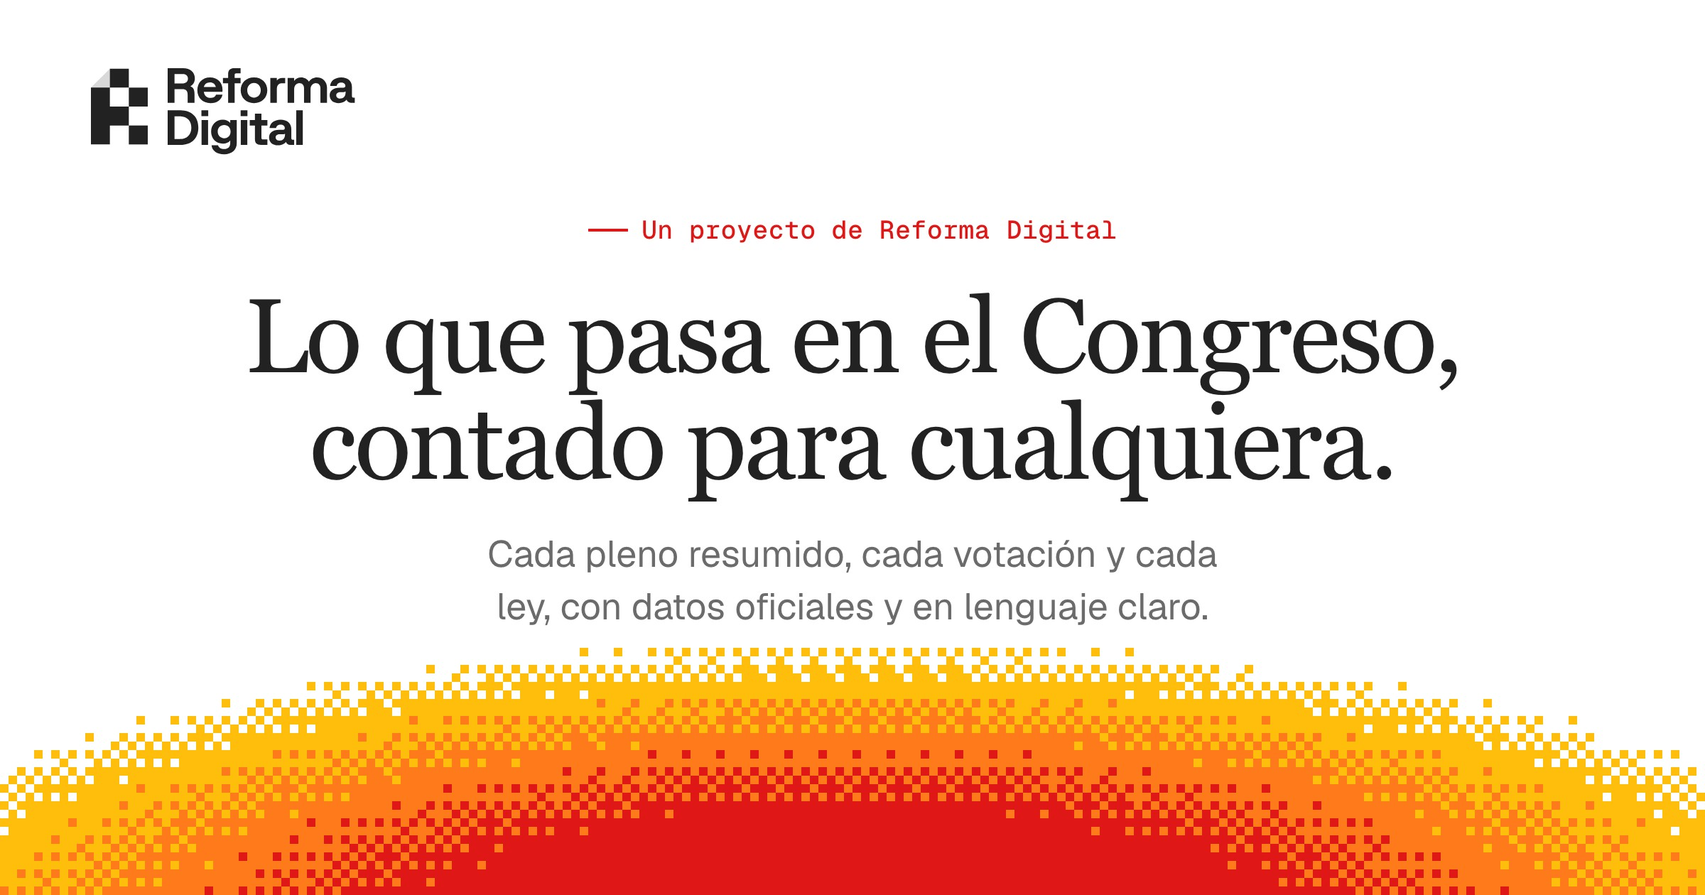
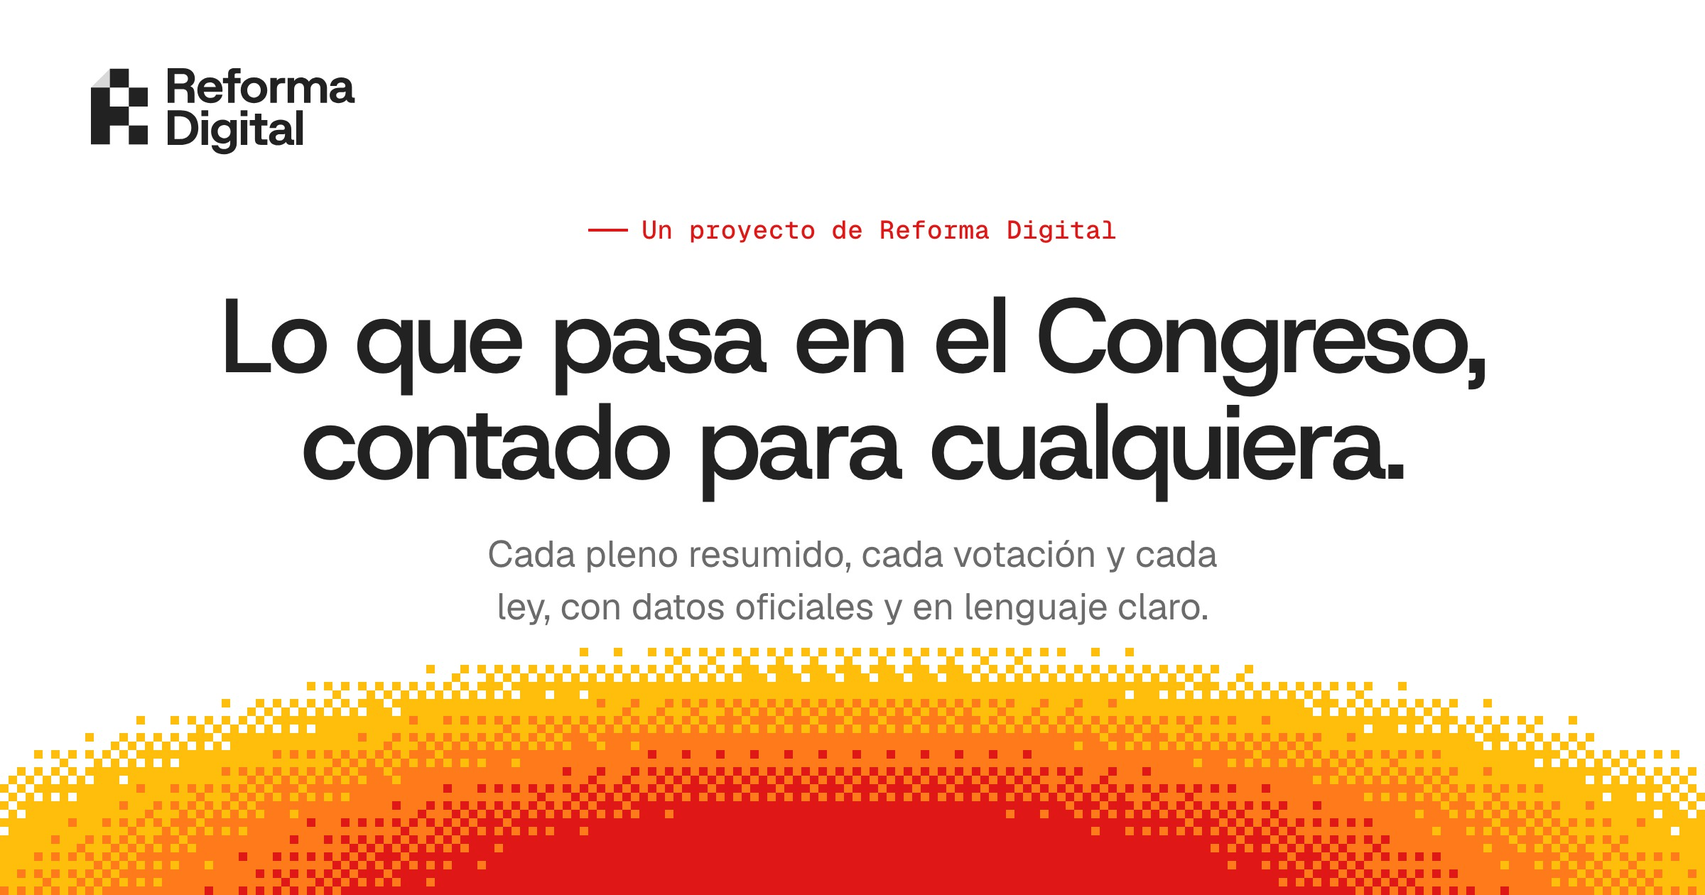
feat(design): cambia los titulares a Host Grotesk Medium
Host Grotesk es OFL y casi idéntica a Cassette, que exigía licencias web y
de app. Sustituye a Cassette en los titulares de la web, la app de
escritorio y las imágenes OG; el resto del texto sigue en Geist (Inter en la
app).

- La web la carga con `next/font/google`, solo en grosor 500.
- La app la incluye con `@fontsource/host-grotesk/500.css`.
- El espaciado de los titulares pasa a -0.035em, también para los h1 y h2
  sin espaciado propio.
- Las imágenes OG se regeneran con la plantilla actualizada.
- DESIGN.md recoge la norma y .gitignore deja de reservar una carpeta para
  fuentes de pago.

Changed region(s): [[0.125, 0.3095, 0.875, 0.5571]]

diff --git a/apps/web/app/(search)/page.tsx b/apps/web/app/(search)/page.tsx
@@ -77,7 +77,7 @@ export default function HomePage() {
             <h1
               id="in-titulo"
               className={
-                't-titular-xl m-0 [font-family:var(--font-brand-heading)] font-normal [font-kerning:normal] text-balance [font-size:clamp(44px,_6.4vw,_92px)] [line-height:1] [letter-spacing:-0.01em]'
+                't-titular-xl m-0 [font-family:var(--font-brand-heading)] font-normal [font-kerning:normal] text-balance [font-size:clamp(44px,_6.4vw,_92px)] [line-height:1] [letter-spacing:-0.035em]'
               }
             >
               Lo público, a la altura de las personas.
@@ -127,7 +127,7 @@ export default function HomePage() {
             <h2
               id="in-idea"
               className={
-                't-titular-m m-0 [font-family:var(--font-brand-heading)] font-normal [font-kerning:normal] text-balance [font-size:clamp(32px,_4vw,_52px)] [line-height:1.05] [letter-spacing:-0.01em]'
+                't-titular-m m-0 [font-family:var(--font-brand-heading)] font-normal [font-kerning:normal] text-balance [font-size:clamp(32px,_4vw,_52px)] [line-height:1.05] [letter-spacing:-0.035em]'
               }
             >
               Que hacer un trámite no sea otro trámite.
@@ -185,7 +185,7 @@ export default function HomePage() {
                   <h2
                     id="in-proyectos-titulo"
                     className={
-                      't-titular-m m-0 [font-family:var(--font-brand-heading)] font-normal [font-kerning:normal] text-balance [font-size:clamp(32px,_4vw,_52px)] [line-height:1.05] [letter-spacing:-0.01em]'
+                      't-titular-m m-0 [font-family:var(--font-brand-heading)] font-normal [font-kerning:normal] text-balance [font-size:clamp(32px,_4vw,_52px)] [line-height:1.05] [letter-spacing:-0.035em]'
                     }
                   >
                     La idea, puesta en práctica.
@@ -415,7 +415,7 @@ export default function HomePage() {
           <h2
             id="in-comunidad-titulo"
             className={
-              't-titular-m m-0 [font-family:var(--font-brand-heading)] font-normal [font-kerning:normal] text-balance [font-size:clamp(32px,_4vw,_52px)] [line-height:1.05] [letter-spacing:-0.01em]'
+              't-titular-m m-0 [font-family:var(--font-brand-heading)] font-normal [font-kerning:normal] text-balance [font-size:clamp(32px,_4vw,_52px)] [line-height:1.05] [letter-spacing:-0.035em]'
             }
           >
             Tu experiencia puede ser el próximo cambio.
@@ -452,7 +452,7 @@ export default function HomePage() {
                 <div>
                   <h3
                     className={
-                      't-titular-s m-0 [font-family:var(--font-brand-heading)] font-normal [font-kerning:normal] text-balance [font-size:clamp(24px,_2.4vw,_30px)] [line-height:1.15] [letter-spacing:-0.01em]'
+                      't-titular-s m-0 [font-family:var(--font-brand-heading)] font-normal [font-kerning:normal] text-balance [font-size:clamp(24px,_2.4vw,_30px)] [line-height:1.15] [letter-spacing:-0.035em]'
                     }
                   >
                     Entra en GitHub.
@@ -483,7 +483,7 @@ export default function HomePage() {
                 <div>
                   <h3
                     className={
-                      't-titular-s m-0 [font-family:var(--font-brand-heading)] font-normal [font-kerning:normal] text-balance [font-size:clamp(24px,_2.4vw,_30px)] [line-height:1.15] [letter-spacing:-0.01em]'
+                      't-titular-s m-0 [font-family:var(--font-brand-heading)] font-normal [font-kerning:normal] text-balance [font-size:clamp(24px,_2.4vw,_30px)] [line-height:1.15] [letter-spacing:-0.035em]'
                     }
                   >
                     Comparte lo que mejorarías.
@@ -514,7 +514,7 @@ export default function HomePage() {
                 <div>
                   <h3
                     className={
-                      't-titular-s m-0 [font-family:var(--font-brand-heading)] font-normal [font-kerning:normal] text-balance [font-size:clamp(24px,_2.4vw,_30px)] [line-height:1.15] [letter-spacing:-0.01em]'
+                      't-titular-s m-0 [font-family:var(--font-brand-heading)] font-normal [font-kerning:normal] text-balance [font-size:clamp(24px,_2.4vw,_30px)] [line-height:1.15] [letter-spacing:-0.035em]'
                     }
                   >
                     Dale forma a una propuesta.

diff --git a/apps/web/components/congreso/common.tsx b/apps/web/components/congreso/common.tsx
@@ -44,7 +44,7 @@ export function Intro({
   return (
     <div
       className={
-        "cg-intro [margin:32px_0] [&_:is(h1,_h2)]:[font-size:clamp(34px,_4.2vw,_56px)] [&_:is(h1,_h2)]:[line-height:1.08] [&_:is(h1,_h2)]:[letter-spacing:-0.01em] [&_:is(h1,_h2)]:[margin:12px_0] [&:has(>_h1)]:[--celda:4px] [&:has(>_h1)]:relative [&:has(>_h1)]:isolate [&:has(>_h1)]:overflow-hidden [&:has(>_h1)]:flex [&:has(>_h1)]:flex-col [&:has(>_h1)]:[justify-content:flex-end] [&:has(>_h1)]:min-h-75 [&:has(>_h1)]:[padding:clamp(32px,_5vw,_64px)_clamp(24px,_4.5vw,_56px)] [&:has(>_h1)]:[border-radius:28px] [&:has(>_h1)]:[box-shadow:inset_0_0_0_1px_var(--border)] [&:has(>_h1)_>_*]:[max-width:min(62ch,_52%)] [&:has(>_h1)::after]:[content:''] [&:has(>_h1)::after]:absolute [&:has(>_h1)::after]:[z-index:-1] [&:has(>_h1)::after]:[right:clamp(0px,_4%,_56px)] [&:has(>_h1)::after]:[bottom:0] [&:has(>_h1)::after]:[width:calc(120_*_var(--celda))] [&:has(>_h1)::after]:[height:calc(44_*_var(--celda))] [&:has(>_h1)::after]:[background:url('/congreso/sol-disco.png')_50%_100%_/_100%_100%_no-repeat] [&:has(>_h1)::after]:[image-rendering:pixelated] [&:has(>_h1)::after]:pointer-events-none [@container(max-width:_1090px)]:[&:has(>_h1)]:[--celda:3px] [@container(max-width:_820px)]:[&:has(>_h1)]:[min-height:0] [@container(max-width:_820px)]:[&:has(>_h1)]:[padding-bottom:calc(44_*_var(--celda)_+_16px)] [@container(max-width:_820px)]:[&:has(>_h1)_>_*]:max-w-none [@container(max-width:_820px)]:[&:has(>_h1)::after]:[right:calc(50%_-_60_*_var(--celda))]"
+        "cg-intro [margin:32px_0] [&_:is(h1,_h2)]:[font-size:clamp(34px,_4.2vw,_56px)] [&_:is(h1,_h2)]:[line-height:1.08] [&_:is(h1,_h2)]:[letter-spacing:-0.035em] [&_:is(h1,_h2)]:[margin:12px_0] [&:has(>_h1)]:[--celda:4px] [&:has(>_h1)]:relative [&:has(>_h1)]:isolate [&:has(>_h1)]:overflow-hidden [&:has(>_h1)]:flex [&:has(>_h1)]:flex-col [&:has(>_h1)]:[justify-content:flex-end] [&:has(>_h1)]:min-h-75 [&:has(>_h1)]:[padding:clamp(32px,_5vw,_64px)_clamp(24px,_4.5vw,_56px)] [&:has(>_h1)]:[border-radius:28px] [&:has(>_h1)]:[box-shadow:inset_0_0_0_1px_var(--border)] [&:has(>_h1)_>_*]:[max-width:min(62ch,_52%)] [&:has(>_h1)::after]:[content:''] [&:has(>_h1)::after]:absolute [&:has(>_h1)::after]:[z-index:-1] [&:has(>_h1)::after]:[right:clamp(0px,_4%,_56px)] [&:has(>_h1)::after]:[bottom:0] [&:has(>_h1)::after]:[width:calc(120_*_var(--celda))] [&:has(>_h1)::after]:[height:calc(44_*_var(--celda))] [&:has(>_h1)::after]:[background:url('/congreso/sol-disco.png')_50%_100%_/_100%_100%_no-repeat] [&:has(>_h1)::after]:[image-rendering:pixelated] [&:has(>_h1)::after]:pointer-events-none [@container(max-width:_1090px)]:[&:has(>_h1)]:[--celda:3px] [@container(max-width:_820px)]:[&:has(>_h1)]:[min-height:0] [@container(max-width:_820px)]:[&:has(>_h1)]:[padding-bottom:calc(44_*_var(--celda)_+_16px)] [@container(max-width:_820px)]:[&:has(>_h1)_>_*]:max-w-none [@container(max-width:_820px)]:[&:has(>_h1)::after]:[right:calc(50%_-_60_*_var(--celda))]"
       }
     >
       <span

diff --git a/apps/web/app/(search)/congreso/[[...path]]/page.tsx b/apps/web/app/(search)/congreso/[[...path]]/page.tsx
@@ -75,7 +75,7 @@ export default async function Page({ params, searchParams }: Props) {
       {section === '' && (
         <section
           className={
-            "cg-hero [--celda:8px] relative isolate overflow-hidden [margin:0_8px] [padding:96px_var(--page-gutter)_calc(32_*_var(--celda)_+_24px)] [border-radius:28px] [box-shadow:inset_0_0_0_1px_var(--border)] text-center [&::after]:[content:''] [&::after]:absolute [&::after]:[z-index:-1] [&::after]:[inset:auto_0_0] [&::after]:[height:calc(32_*_var(--celda))] [&::after]:[background:url('/congreso/sol-horizonte.png')_50%_100%_/_calc(360_*_var(--celda))_100%_no-repeat] [&::after]:[image-rendering:pixelated] [&::after]:pointer-events-none [&_h1]:[font-size:clamp(36px,_5vw,_72px)] [&_h1]:[line-height:1.08] [&_h1]:[letter-spacing:-0.01em] [&_h1]:[max-width:25ch] [&_h1]:[margin:24px_auto] [&_p]:[max-width:62ch] [&_p]:[margin:0_auto] [&_p]:[color:var(--text-secondary)] [&_p]:text-lg [&_[data-slot=button][data-variant=outline]]:absolute [&_[data-slot=button][data-variant=outline]]:[inset:auto_0_24px] [&_[data-slot=button][data-variant=outline]]:[width:fit-content] [&_[data-slot=button][data-variant=outline]]:[margin-inline:auto] [@media(max-width:_560px)]:[--celda:6px] [@media(max-width:_560px)]:pt-16 [@media(max-width:_560px)]:[&_p]:text-base"
+            "cg-hero [--celda:8px] relative isolate overflow-hidden [margin:0_8px] [padding:96px_var(--page-gutter)_calc(32_*_var(--celda)_+_24px)] [border-radius:28px] [box-shadow:inset_0_0_0_1px_var(--border)] text-center [&::after]:[content:''] [&::after]:absolute [&::after]:[z-index:-1] [&::after]:[inset:auto_0_0] [&::after]:[height:calc(32_*_var(--celda))] [&::after]:[background:url('/congreso/sol-horizonte.png')_50%_100%_/_calc(360_*_var(--celda))_100%_no-repeat] [&::after]:[image-rendering:pixelated] [&::after]:pointer-events-none [&_h1]:[font-size:clamp(36px,_5vw,_72px)] [&_h1]:[line-height:1.08] [&_h1]:[letter-spacing:-0.035em] [&_h1]:[max-width:25ch] [&_h1]:[margin:24px_auto] [&_p]:[max-width:62ch] [&_p]:[margin:0_auto] [&_p]:[color:var(--text-secondary)] [&_p]:text-lg [&_[data-slot=button][data-variant=outline]]:absolute [&_[data-slot=button][data-variant=outline]]:[inset:auto_0_24px] [&_[data-slot=button][data-variant=outline]]:[width:fit-content] [&_[data-slot=button][data-variant=outline]]:[margin-inline:auto] [@media(max-width:_560px)]:[--celda:6px] [@media(max-width:_560px)]:pt-16 [@media(max-width:_560px)]:[&_p]:text-base"
           }
         >
           <span

diff --git a/apps/web/components/brand/info-page.tsx b/apps/web/components/brand/info-page.tsx
@@ -9,7 +9,7 @@ export function InfoPage({ children, narrow = false }: { children: ReactNode; na
       <main
         id="main"
         tabIndex={-1}
-        className={`info-pagina [max-width:var(--container-content)] [min-height:55vh] [margin-inline:auto] [padding:64px_var(--page-gutter)_80px] [&_>_h1]:[max-width:22ch] [&_>_h1]:mb-6 [&_>_h1]:[font:400_clamp(36px,_4.5vw,_60px)/1.1_var(--font-brand-heading)] [&_>_h1]:[letter-spacing:-0.01em] [&_form:has(select)]:flex [&_form:has(select)]:items-center [&_form:has(select)]:flex-wrap [&_form:has(select)]:gap-3 [&_form:has(select)]:my-6 [&_table]:w-full [&_table]:[border-collapse:collapse] [&_table]:text-sm [&_table]:my-4 [&_:is(th,_td)]:p-3 [&_:is(th,_td)]:[border-bottom:1px_solid_var(--border)] [&_:is(th,_td)]:text-left [&_:is(th,_td)]:[font-variant-numeric:tabular-nums] [@media(max-width:_600px)]:[padding-block:40px_64px]${narrow ? ' info-lectura [max-width:760px] [&_>_h2]:[margin-block:40px_16px] [&_>_h2]:[font-size:clamp(24px,_3vw,_32px)] [&_>_h2]:[line-height:1.2] [&_>_p:not(.info-entradilla)]:my-4 [&_>_p:not(.info-entradilla)]:[color:var(--text-secondary)] [&_li]:my-4 [&_li]:[color:var(--text-secondary)] [&_ol]:pl-6 [&_li]:pl-2 [&_strong]:[color:var(--foreground)]' : ''}`}
+        className={`info-pagina [max-width:var(--container-content)] [min-height:55vh] [margin-inline:auto] [padding:64px_var(--page-gutter)_80px] [&_>_h1]:[max-width:22ch] [&_>_h1]:mb-6 [&_>_h1]:[font:400_clamp(36px,_4.5vw,_60px)/1.1_var(--font-brand-heading)] [&_>_h1]:[letter-spacing:-0.035em] [&_form:has(select)]:flex [&_form:has(select)]:items-center [&_form:has(select)]:flex-wrap [&_form:has(select)]:gap-3 [&_form:has(select)]:my-6 [&_table]:w-full [&_table]:[border-collapse:collapse] [&_table]:text-sm [&_table]:my-4 [&_:is(th,_td)]:p-3 [&_:is(th,_td)]:[border-bottom:1px_solid_var(--border)] [&_:is(th,_td)]:text-left [&_:is(th,_td)]:[font-variant-numeric:tabular-nums] [@media(max-width:_600px)]:[padding-block:40px_64px]${narrow ? ' info-lectura [max-width:760px] [&_>_h2]:[margin-block:40px_16px] [&_>_h2]:[font-size:clamp(24px,_3vw,_32px)] [&_>_h2]:[line-height:1.2] [&_>_p:not(.info-entradilla)]:my-4 [&_>_p:not(.info-entradilla)]:[color:var(--text-secondary)] [&_li]:my-4 [&_li]:[color:var(--text-secondary)] [&_ol]:pl-6 [&_li]:pl-2 [&_strong]:[color:var(--foreground)]' : ''}`}
       >
         {children}
       </main>

diff --git a/apps/web/components/elecciones/report.tsx b/apps/web/components/elecciones/report.tsx
@@ -59,7 +59,7 @@ export function Cell({
 export function Stat({ value, caption }: { value: ReactNode; caption: ReactNode }) {
   return (
     <p className="m-0 grid gap-2">
-      <b className="font-heading text-[40px] leading-none font-normal tracking-[-0.01em] tabular-nums lg:text-5xl">
+      <b className="font-heading text-[40px] leading-none font-normal tracking-[-0.035em] tabular-nums lg:text-5xl">
         {value}
       </b>
       <span className="max-w-[32ch] text-base leading-snug text-muted-foreground">{caption}</span>
@@ -165,7 +165,7 @@ export function Chapter({
           </p>
           <h2
             id={`${id}-titulo`}
-            className="m-0 font-heading text-[32px] leading-[1.1] font-normal tracking-[-0.01em] lg:text-[44px]"
+            className="m-0 font-heading text-[32px] leading-[1.1] font-normal tracking-[-0.035em] lg:text-[44px]"
           >
             {title}
           </h2>
@@ -183,7 +183,7 @@ export function Chapter({
 export function ReportIntro({ title, children }: { title: string; children?: ReactNode }) {
   return (
     <header className="mb-10 grid items-end gap-x-12 gap-y-4 md:grid-cols-2">
-      <h1 className="m-0 font-heading text-4xl leading-[1.1] font-normal tracking-[-0.01em] lg:text-[52px]">
+      <h1 className="m-0 font-heading text-4xl leading-[1.1] font-normal tracking-[-0.035em] lg:text-[52px]">
         {title}
       </h1>
       {children && (
@@ -204,7 +204,7 @@ export function ReportStats({ items }: { items: [number | string, string][] }) {
           className="flex-col-reverse justify-end gap-2 bg-muted p-6 ring-0 max-sm:p-5"
         >
           <dt className="text-base leading-snug text-muted-foreground">{label}</dt>
-          <dd className="m-0 font-heading text-[40px] leading-none tracking-[-0.01em] tabular-nums">
+          <dd className="m-0 font-heading text-[40px] leading-none tracking-[-0.035em] tabular-nums">
             {typeof value === 'number'
               ? String(value).replace(/\B(?=(\d{3})+(?!\d))/g, '.')
               : value}

diff --git a/apps/web/app/layout.tsx b/apps/web/app/layout.tsx
@@ -33,7 +33,7 @@ export default function RootLayout({ children }: { children: React.ReactNode }) 
       data-bg-landing=""
       data-scroll-behavior="smooth"
     >
-      <body className="bg-background font-sans text-base leading-[1.55] text-foreground antialiased [font-synthesis:none] [:where(&)_h1]:font-heading [:where(&)_h1]:font-normal [:where(&)_h2]:font-heading [:where(&)_h2]:font-normal [&_:is(h1,h2,h3,h4,dt)]:text-balance [&_:is(p,li,dd,figcaption,small)]:text-pretty selection:bg-brand-yellow selection:text-foreground [&_main:focus]:outline-none [&_.cg-voto-si]:[background:#237647] [&_.cg-voto-si]:[fill:#237647] [&_.cg-voto-no]:[background:var(--brand)] [&_.cg-voto-no]:[fill:var(--brand)] [&_.cg-voto-abst]:[background:var(--brand-yellow)] [&_.cg-voto-abst]:[fill:var(--brand-yellow)] [&_.cg-voto-ausente]:[background:var(--disabled)] [&_.cg-voto-ausente]:[fill:var(--disabled)]">
+      <body className="bg-background font-sans text-base leading-[1.55] text-foreground antialiased [font-synthesis:none] [:where(&)_h1]:font-heading [:where(&)_h1]:font-normal [:where(&)_h2]:font-heading [:where(&)_h2]:font-normal [:where(&)_:is(h1,h2)]:tracking-[-0.035em] [&_:is(h1,h2,h3,h4,dt)]:text-balance [&_:is(p,li,dd,figcaption,small)]:text-pretty selection:bg-brand-yellow selection:text-foreground [&_main:focus]:outline-none [&_.cg-voto-si]:[background:#237647] [&_.cg-voto-si]:[fill:#237647] [&_.cg-voto-no]:[background:var(--brand)] [&_.cg-voto-no]:[fill:var(--brand)] [&_.cg-voto-abst]:[background:var(--brand-yellow)] [&_.cg-voto-abst]:[fill:var(--brand-yellow)] [&_.cg-voto-ausente]:[background:var(--disabled)] [&_.cg-voto-ausente]:[fill:var(--disabled)]">
         <a
           className={
             'sol-salto fixed top-2 left-2 [z-index:100] inline-flex items-center min-h-11 [padding:0_16px] [border-radius:12px] [background:var(--foreground)] [color:var(--background)] [font-size:15px] font-medium no-underline [transform:translateY(calc(-100%_-_16px))] [&:focus-visible]:[transform:none]'

diff --git a/apps/web/app/(search)/equipo/page.tsx b/apps/web/app/(search)/equipo/page.tsx
@@ -57,7 +57,7 @@ export default async function CoreTeamPage() {
               <h1
                 id="ct-titulo"
                 className={
-                  't-titular-m m-0 [font-family:var(--font-brand-heading)] font-normal [font-kerning:normal] text-balance [font-size:clamp(32px,_4vw,_52px)] [line-height:1.05] [letter-spacing:-0.01em]'
+                  't-titular-m m-0 [font-family:var(--font-brand-heading)] font-normal [font-kerning:normal] text-balance [font-size:clamp(32px,_4vw,_52px)] [line-height:1.05] [letter-spacing:-0.035em]'
                 }
               >
                 Core team
@@ -99,7 +99,7 @@ export default async function CoreTeamPage() {
                         <div>
                           <h2
                             className={
-                              't-titular-s m-0 [font-family:var(--font-brand-heading)] font-normal [font-kerning:normal] text-balance [font-size:clamp(24px,_2.4vw,_30px)] [line-height:1.15] [letter-spacing:-0.01em]'
+                              't-titular-s m-0 [font-family:var(--font-brand-heading)] font-normal [font-kerning:normal] text-balance [font-size:clamp(24px,_2.4vw,_30px)] [line-height:1.15] [letter-spacing:-0.035em]'
                             }
                           >
                             {name}
@@ -136,7 +136,7 @@ export default async function CoreTeamPage() {
                 <h2
                   id="ct-contributors-titulo"
                   className={
-                    't-titular-s m-0 [font-family:var(--font-brand-heading)] font-normal [font-kerning:normal] text-balance [font-size:clamp(24px,_2.4vw,_30px)] [line-height:1.15] [letter-spacing:-0.01em]'
+                    't-titular-s m-0 [font-family:var(--font-brand-heading)] font-normal [font-kerning:normal] text-balance [font-size:clamp(24px,_2.4vw,_30px)] [line-height:1.15] [letter-spacing:-0.035em]'
                   }
                 >
                   Contributors

diff --git a/apps/web/app/(search)/escritorio/page.tsx b/apps/web/app/(search)/escritorio/page.tsx
@@ -43,9 +43,9 @@ const readme = `${links.repo}/tree/main/apps/desktop#readme`;
 
 const etiqueta = 'text-sm font-medium text-brand';
 const titularSeccion =
-  'm-0 font-heading font-normal text-balance text-[clamp(32px,4vw,52px)] leading-[1.05] tracking-[-0.01em]';
+  'm-0 font-heading font-normal text-balance text-[clamp(32px,4vw,52px)] leading-[1.05] tracking-[-0.035em]';
 const titularTarjeta =
-  'm-0 font-heading font-normal text-balance text-[clamp(24px,2.4vw,30px)] leading-[1.15] tracking-[-0.01em]';
+  'm-0 font-heading font-normal text-balance text-[clamp(24px,2.4vw,30px)] leading-[1.15] tracking-[-0.035em]';
 const entradilla = 'text-[clamp(17px,1.4vw,19px)] leading-[1.6] text-pretty';
 const seccion = 'mx-auto max-w-(--container-content) px-(--page-gutter)';
 
@@ -82,7 +82,7 @@ export default function DesktopPage() {
           <p className={cn(etiqueta, 'mb-5')}>App de escritorio para macOS, Windows y Linux</p>
           <h1
             id="es-titulo"
-            className="mx-auto mb-6 max-w-[28ch] font-heading text-[clamp(36px,5vw,60px)] leading-[1.08] font-normal tracking-[-0.01em] text-balance"
+            className="mx-auto mb-6 max-w-[28ch] font-heading text-[clamp(36px,5vw,60px)] leading-[1.08] font-normal tracking-[-0.035em] text-balance"
           >
             Haz tus trámites sin perderte en la sede electrónica.
           </h1>

diff --git a/apps/web/og/template.html b/apps/web/og/template.html
@@ -5,7 +5,7 @@
     <title>Reforma Digital</title>
     <link
       rel="stylesheet"
-      href="https://fonts.googleapis.com/css2?family=Geist:wght@400;500;600;700&family=Geist+Mono:wght@400;500&display=block"
+      href="https://fonts.googleapis.com/css2?family=Host+Grotesk:wght@500&family=Geist:wght@400;500;600;700&family=Geist+Mono:wght@400;500&display=block"
     />
     <style>
       :root {
@@ -18,7 +18,7 @@
         --tinta-3: #6b6b6b;
         --blanco: #ffffff;
         --linea: rgba(0, 0, 0, 0.1);
-        --font-titular: Georgia, serif;
+        --font-titular: 'Host Grotesk', 'Geist', ui-sans-serif, system-ui, sans-serif;
         --font-texto: 'Geist', ui-sans-serif, system-ui, sans-serif;
         --font-mono: 'Geist Mono', ui-monospace, monospace;
       }
@@ -144,9 +144,9 @@
       h1 {
         font-family: var(--font-titular);
         font-size: 74px;
-        font-weight: 400;
+        font-weight: 500;
         line-height: 1.02;
-        letter-spacing: -0.025em;
+        letter-spacing: -0.035em;
         text-wrap: balance;
       }
       .texto {
@@ -223,7 +223,7 @@
         max-width: 900px;
         font-size: 86px;
         line-height: 1.04;
-        letter-spacing: -0.02em;
+        letter-spacing: -0.035em;
       }
       [data-escena='portada'] .texto {
         max-width: 44ch;

diff --git a/apps/web/components/brand/fuentes.ts b/apps/web/components/brand/fuentes.ts
@@ -1,8 +1,14 @@
-import { Geist, Geist_Mono } from 'next/font/google';
+import { Geist, Geist_Mono, Host_Grotesk } from 'next/font/google';
 
 const geist = Geist({ subsets: ['latin'], variable: '--font-geist' });
 // Sin preload: solo la usan etiquetas y datos pequeños, y no todas las páginas los muestran.
 const geistMono = Geist_Mono({ subsets: ['latin'], variable: '--font-geist-mono', preload: false });
+// Solo Medium: los titulares no usan otro grosor, aunque pidan `font-normal`.
+const hostGrotesk = Host_Grotesk({
+  subsets: ['latin'],
+  weight: '500',
+  variable: '--font-host-grotesk',
+});
 
 // Se monta una sola vez en el layout raíz junto a `sol-raiz`.
-export const fuentesSol = `${geist.variable} ${geistMono.variable}`;
+export const fuentesSol = `${geist.variable} ${geistMono.variable} ${hostGrotesk.variable}`;

diff --git a/apps/web/components/brand/mobile-menu.tsx b/apps/web/components/brand/mobile-menu.tsx
@@ -57,7 +57,7 @@ export function MobileMenu({ links }: { links: readonly MenuLink[] }) {
                 href={href}
                 aria-current={current ? 'page' : undefined}
                 onClick={close}
-                className="flex min-h-[76px] items-center justify-between border-b border-foreground/15 font-heading text-4xl leading-tight tracking-[-0.01em] no-underline"
+                className="flex min-h-[76px] items-center justify-between border-b border-foreground/15 font-heading text-4xl leading-tight tracking-[-0.035em] no-underline"
               >
                 {text}
                 <Icon name="derecha" size={18} />

diff --git a/apps/web/components/elecciones/home.tsx b/apps/web/components/elecciones/home.tsx
@@ -415,7 +415,7 @@ export async function ElectionsHome() {
           <div className="grid gap-8">
             <div className="grid justify-items-start gap-4">
               <Badge className="font-mono uppercase">{current.label}</Badge>
-              <h1 className="m-0 max-w-[18ch] font-heading text-4xl leading-[1.08] font-normal tracking-[-0.01em] lg:text-[56px]">
+              <h1 className="m-0 max-w-[18ch] font-heading text-4xl leading-[1.08] font-normal tracking-[-0.035em] lg:text-[56px]">
                 {current.title}
               </h1>
               <p className="m-0 max-w-[58ch] text-lg leading-relaxed text-muted-foreground">
